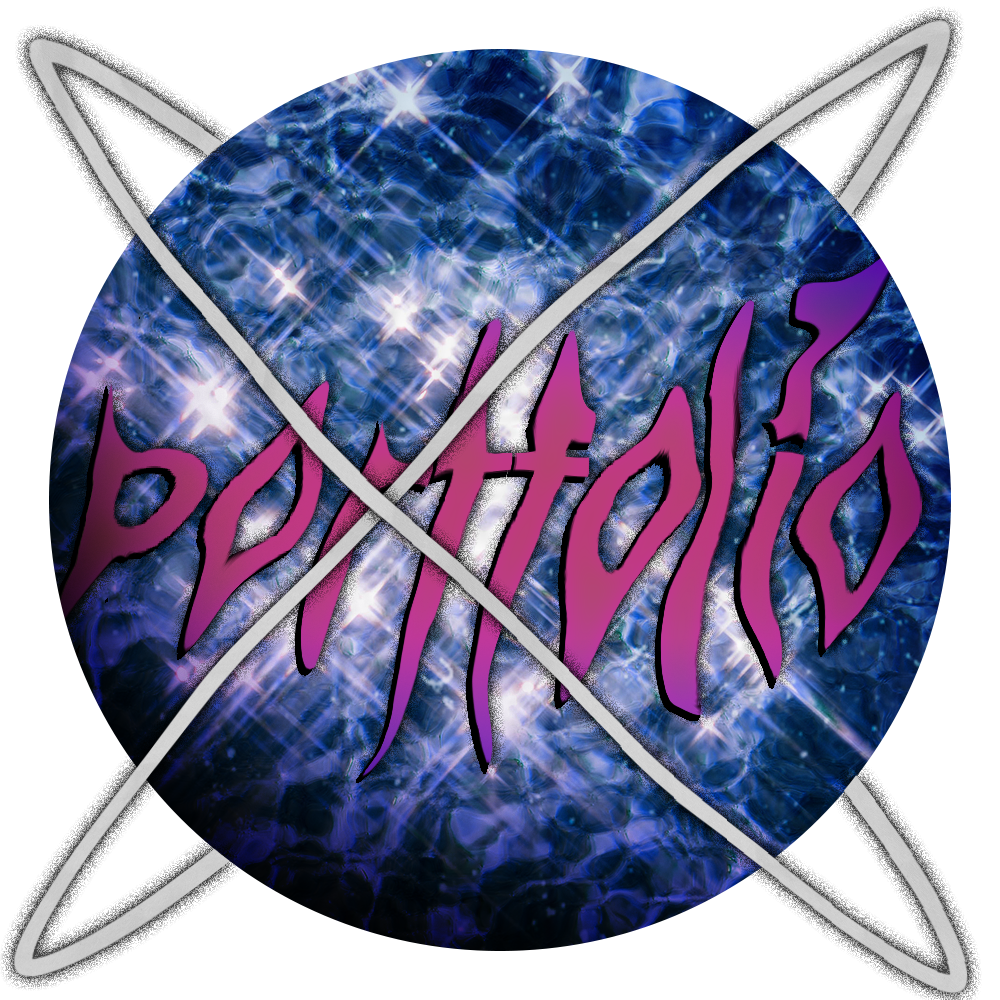
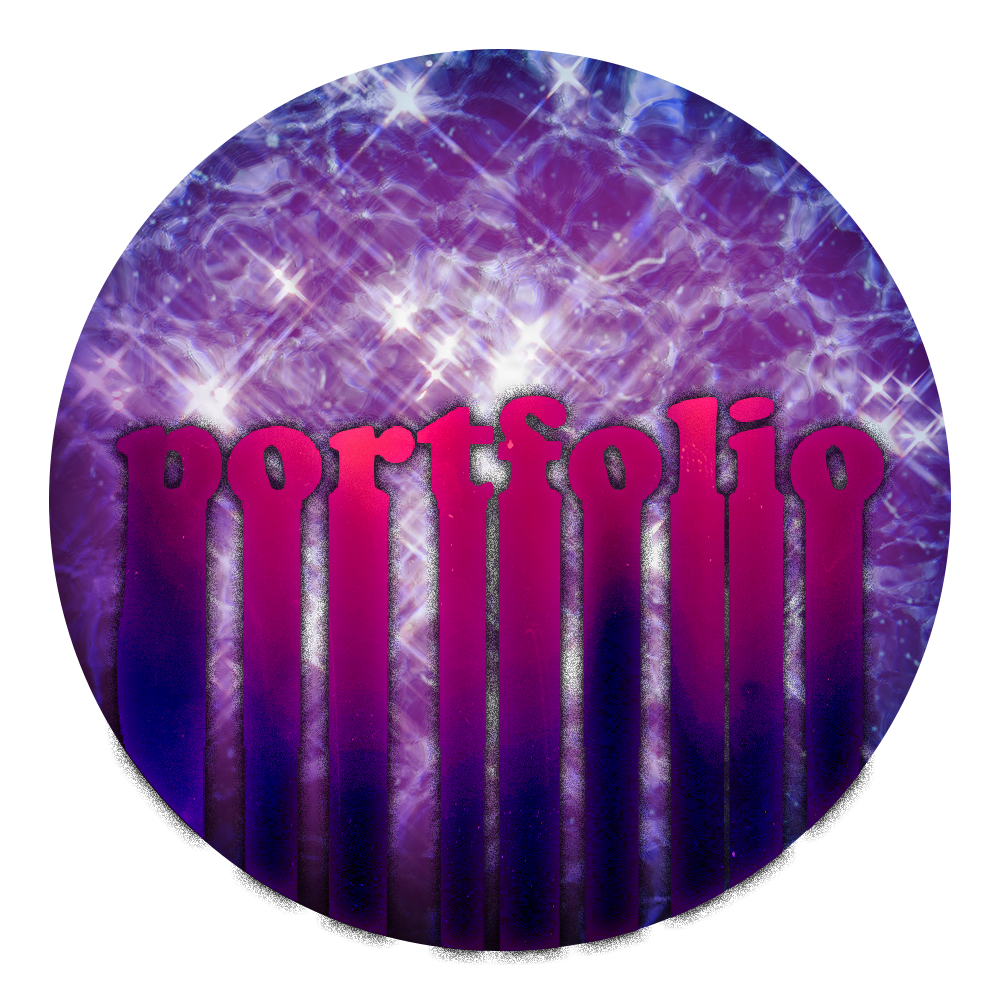
new planet fix

diff --git a/index.html b/index.html
@@ -35,7 +35,7 @@
                 <br>
                 <a href="projects.html"><img src="pics/planet projects.png" id="planetlogo" class="boardsimgContent"></a> 
                 <a href="virtual merch store.html"><img src="pics/planet vmerch.png" id="planetlogo" class="boardsimgContent"></a>
-                <a href="portfolio.html"><img src="pics/planet projects.png" id="planetlogo" class="boardsimgContent"></a> 
+                <a href="portfolio.html"><img src="pics/planet portfolio.png" id="planetlogo" class="boardsimgContent"></a> 
             </div>
         </div>
 
